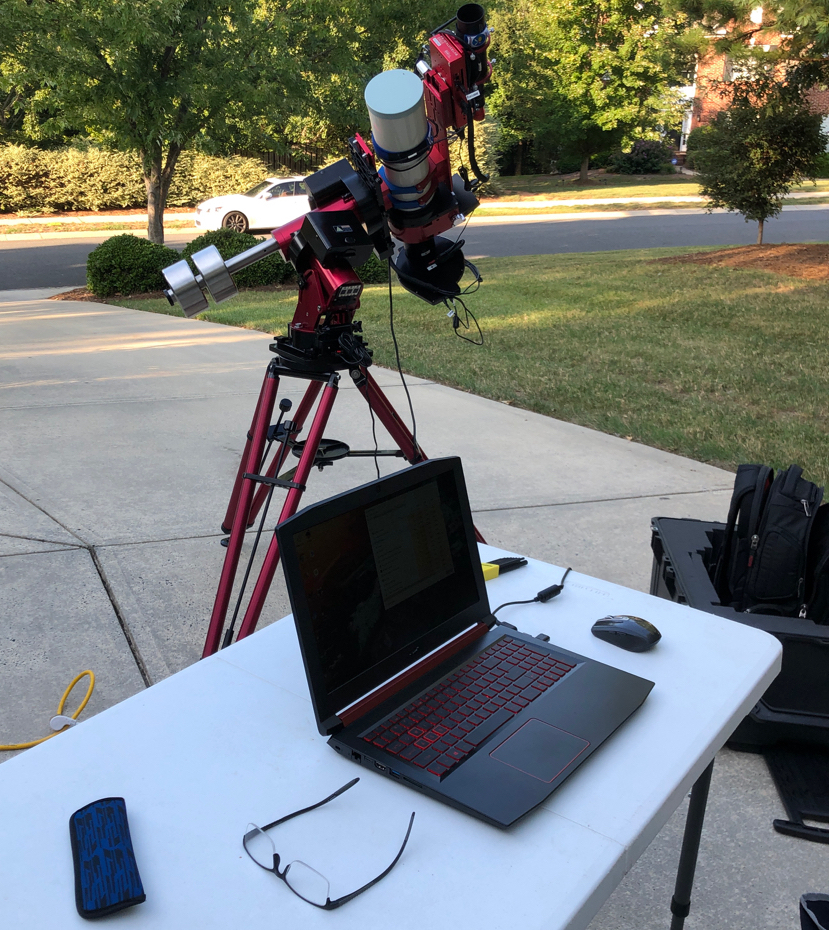
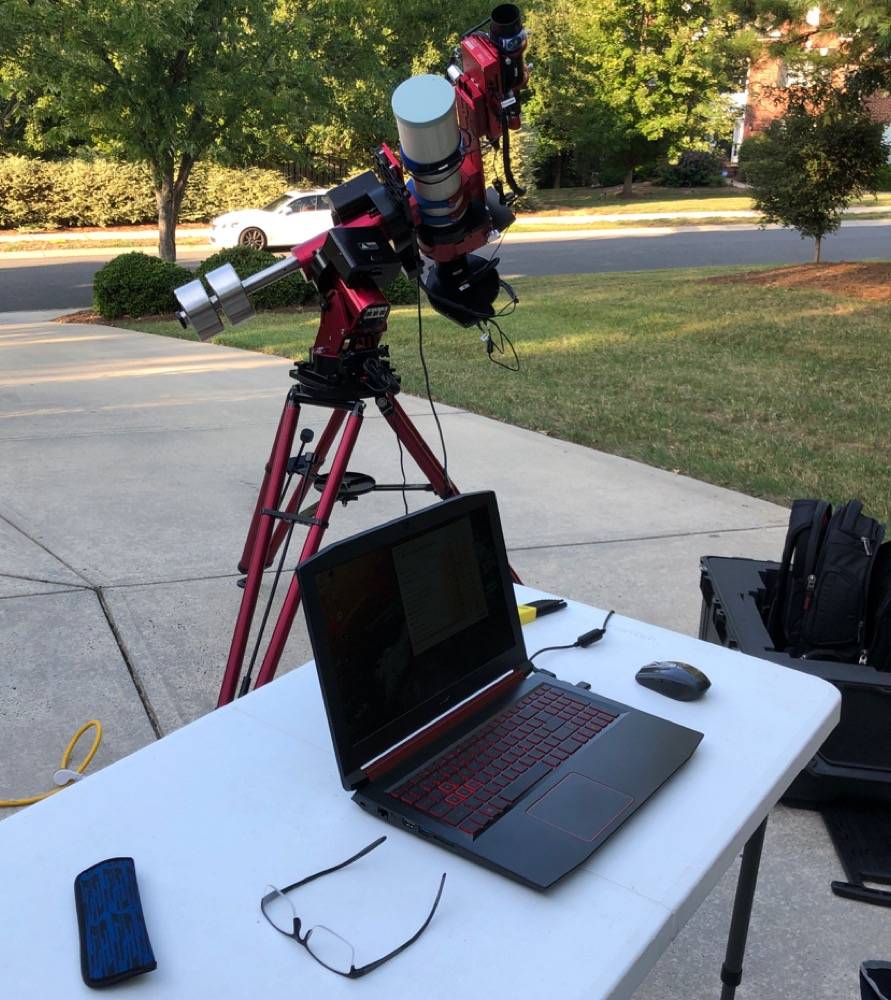
reduce image sizes

diff --git a/_posts/2018-11-10-finally-got-back-out-elephant-trunk-nebula.md b/_posts/2018-11-10-finally-got-back-out-elephant-trunk-nebula.md
@@ -19,7 +19,7 @@ It's been quite a while since I was able to get out to the observatory and actua
 <!--more-->
 
 {% 
-  include figure image_path="/assets/images/posts/ElephantTrunkSHO.png" 
+  include figure image_path="/assets/images/posts/ElephantTrunkSHO.jpg" 
   caption="Elephant's Trunk Nebula, ~7 hours" 
 %}
 Don't get me wrong- I did **try** to take some pictures.  I am a mac guy-- very computer savvy, but windows is a PITA.  When it comes to astrophotography, windows is really a necessity.  I was experimenting at home with some automation software options ([CCD Commander](http://ccdcommander.com) and [CCD Autopilot](http://www.ccdware.com/products/ccdap5/)), and couldn't really get either of them to work, so I uninstalled them to try later.
